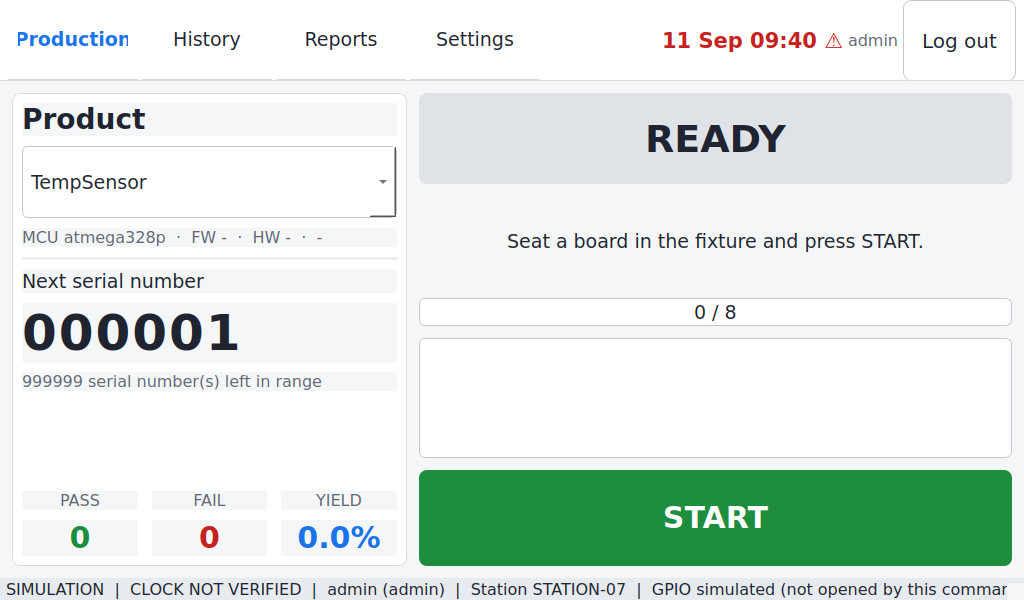
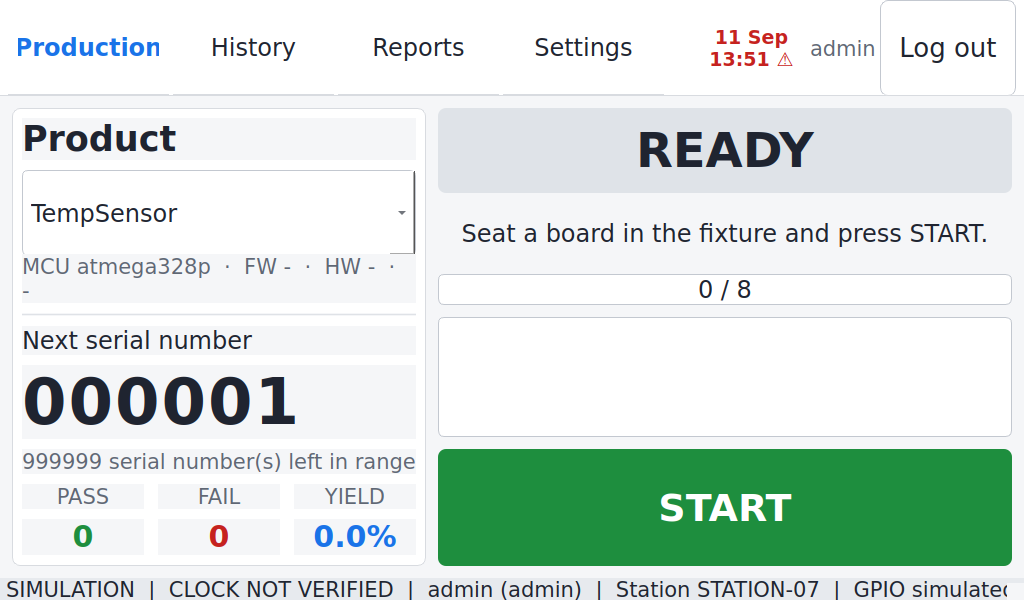
Stop the clock colliding with the user name
On the station the clock was drawn cut off mid-time, running straight into
the name beside it: "11 Sep 13:admin".

Interface scale is chosen from the screen, but a windowed station can be far
narrower than the screen it sits on. On a 1080-tall laptop the scale is 1.6,
which made the clock 233 px wide and pushed the navigation bar to 1119 px in
a roughly 1024 px window. Qt squeezed the bar to fit and the clock lost the
end of its text.

Smaller type, and the date stacked over the time rather than beside it: 85 px
instead of 233, and the bar now asks 983 px at that scale. Explicit spacing
before the user name as well, so the two cannot touch even when space is
tight. The date stays on screen -- the fault that began this work was a wrong
date, not a wrong time.

The existing panel tests paired each width with its own height, so they never
covered a tall screen driving a narrow window, which is exactly this case.
The new test does, and asserts the clock is given the width it asks for
rather than merely that the window fits.

Claude-Session: https://claude.ai/code/session_011gTa1gMy5YaBvHdNh1FVEw

diff --git a/progstation/gui/app.py b/progstation/gui/app.py
@@ -9,7 +9,7 @@ from typing import Optional
 
 from .. import APP_NAME, __version__
 from ..security.auth import Session
-from .qt import QtCore, QtWidgets, exec_app
+from .qt import ALIGN_CENTER, QtCore, QtWidgets, exec_app
 from .style import build_stylesheet, scale_for
 from .widgets import set_kiosk
 
@@ -85,7 +85,11 @@ class MainWindow(QtWidgets.QMainWindow):
         # should not have to leave the production screen to read the clock.
         self.clock_label = QtWidgets.QLabel()
         self.clock_label.setObjectName("Clock")
+        self.clock_label.setAlignment(ALIGN_CENTER)
         nav_layout.addWidget(self.clock_label)
+        # Never let it butt against the user name: squeezed, the two ran
+        # together as "13:admin".
+        nav_layout.addSpacing(12)
 
         # The panel is only 800 px wide, so keep this short: the full name and
         # role go in the tooltip and the status bar.  It must still be visible
@@ -152,10 +156,15 @@ class MainWindow(QtWidgets.QMainWindow):
         """
         reading = self.app.clock.last
         verified = reading is not None and reading.ok
-        # Short enough for the 800 px panel, and still carrying the date --
-        # the fault that started this was a wrong date, not a wrong time.
+        # Date over time, in two short lines. On one line at the scale a
+        # 1080-tall screen picks it was 233 px wide and pushed the whole
+        # navigation bar past a 1024 px window, so Qt squeezed it and drew the
+        # time clipped into the user name. Stacked it is half that, and still
+        # carries the date -- the fault that started this was a wrong date.
+        now = datetime.now()
         self.clock_label.setText(
-            datetime.now().strftime("%d %b %H:%M") + ("" if verified else " ⚠")
+            now.strftime("%d %b") + "\n" + now.strftime("%H:%M")
+            + ("" if verified else " ⚠")
         )
         name = "Clock" if verified else "ClockUnset"
         if self.clock_label.objectName() != name:

diff --git a/tests/test_gui_layout.py b/tests/test_gui_layout.py
@@ -214,6 +214,41 @@ def test_scaled_stylesheet_enlarges_metrics():
     assert start_font(build_stylesheet(1.6)) > base
 
 
+def test_the_bar_fits_a_window_narrower_than_the_screen(qt_app, tmp_path):
+    """Interface scale is chosen from the *screen*, but a windowed station can
+    be far narrower than the screen it sits on.
+
+    On a 1080-tall laptop the scale is 1.6 while the window is about 1024 wide.
+    The navigation bar ran over, so Qt squeezed it: the clock was cut off
+    mid-way through the time and collided with the user name beside it.
+    """
+    from progstation.gui.app import MainWindow
+    from progstation.gui.style import build_stylesheet, scale_for
+    from progstation.security.auth import Session
+
+    app = _station(tmp_path)
+    try:
+        qt_app.setStyleSheet(build_stylesheet(scale_for(1080)))
+        window = MainWindow(app, Session(1, "admin", "A", "admin"), kiosk=False)
+        window.resize(1024, 600)
+        window._update_clock()          # its longest, unverified form
+        window.show()
+        assert window.minimumSizeHint().width() <= 1024, (
+            f"{window.minimumSizeHint().width()} px wide in a 1024 px window "
+            f"at the scale a 1080-tall screen picks"
+        )
+        # And the clock itself must have the room it asked for, or it is
+        # drawn clipped into whatever sits next to it.
+        clock = window.clock_label
+        assert clock.width() >= clock.sizeHint().width(), (
+            f"clock clipped: {clock.width()} px for {clock.sizeHint().width()} px "
+            f"of text"
+        )
+        window.close()
+    finally:
+        app.close()
+
+
 def test_layout_fits_a_ten_inch_panel(qt_app, tmp_path):
     """The 10-inch HDMI panels in use are 1024x600 and 1280x800."""
     from progstation.gui.app import MainWindow

diff --git a/progstation/gui/style.py b/progstation/gui/style.py
@@ -38,8 +38,8 @@ QGroupBox::title {{
 }}
 QLabel#Title      {{ font-size: 22px; font-weight: 700; }}
 QLabel#Subtle     {{ color: {COLOR_MUTED}; font-size: 13px; }}
-QLabel#Clock      {{ font-size: 17px; font-weight: 600; }}
-QLabel#ClockUnset {{ font-size: 17px; font-weight: 600; color: {COLOR_FAIL}; }}
+QLabel#Clock      {{ font-size: 12px; font-weight: 600; }}
+QLabel#ClockUnset {{ font-size: 12px; font-weight: 600; color: {COLOR_FAIL}; }}
 QLabel#BigSerial  {{ font-size: 40px; font-weight: 700; letter-spacing: 2px; }}
 QLabel#StatusPass {{ background: {COLOR_PASS}; color: white; font-size: 34px;
                      font-weight: 700; border-radius: 8px; padding: 14px; }}

diff --git a/tests/test_timeutil.py b/tests/test_timeutil.py
@@ -224,8 +224,10 @@ def test_the_clock_shows_local_time_and_the_date(qt_app_time, india, tmp_path):
     app, window = _main_window(tmp_path)
     try:
         window._update_clock()
-        expected = datetime.now().strftime("%d %b %H:%M")
-        assert window.clock_label.text().startswith(expected)
+        now = datetime.now()
+        # Two lines: date over time, to keep the navigation bar narrow.
+        assert window.clock_label.text().startswith(now.strftime("%d %b"))
+        assert now.strftime("%H:%M") in window.clock_label.text()
     finally:
         app.close()
 
